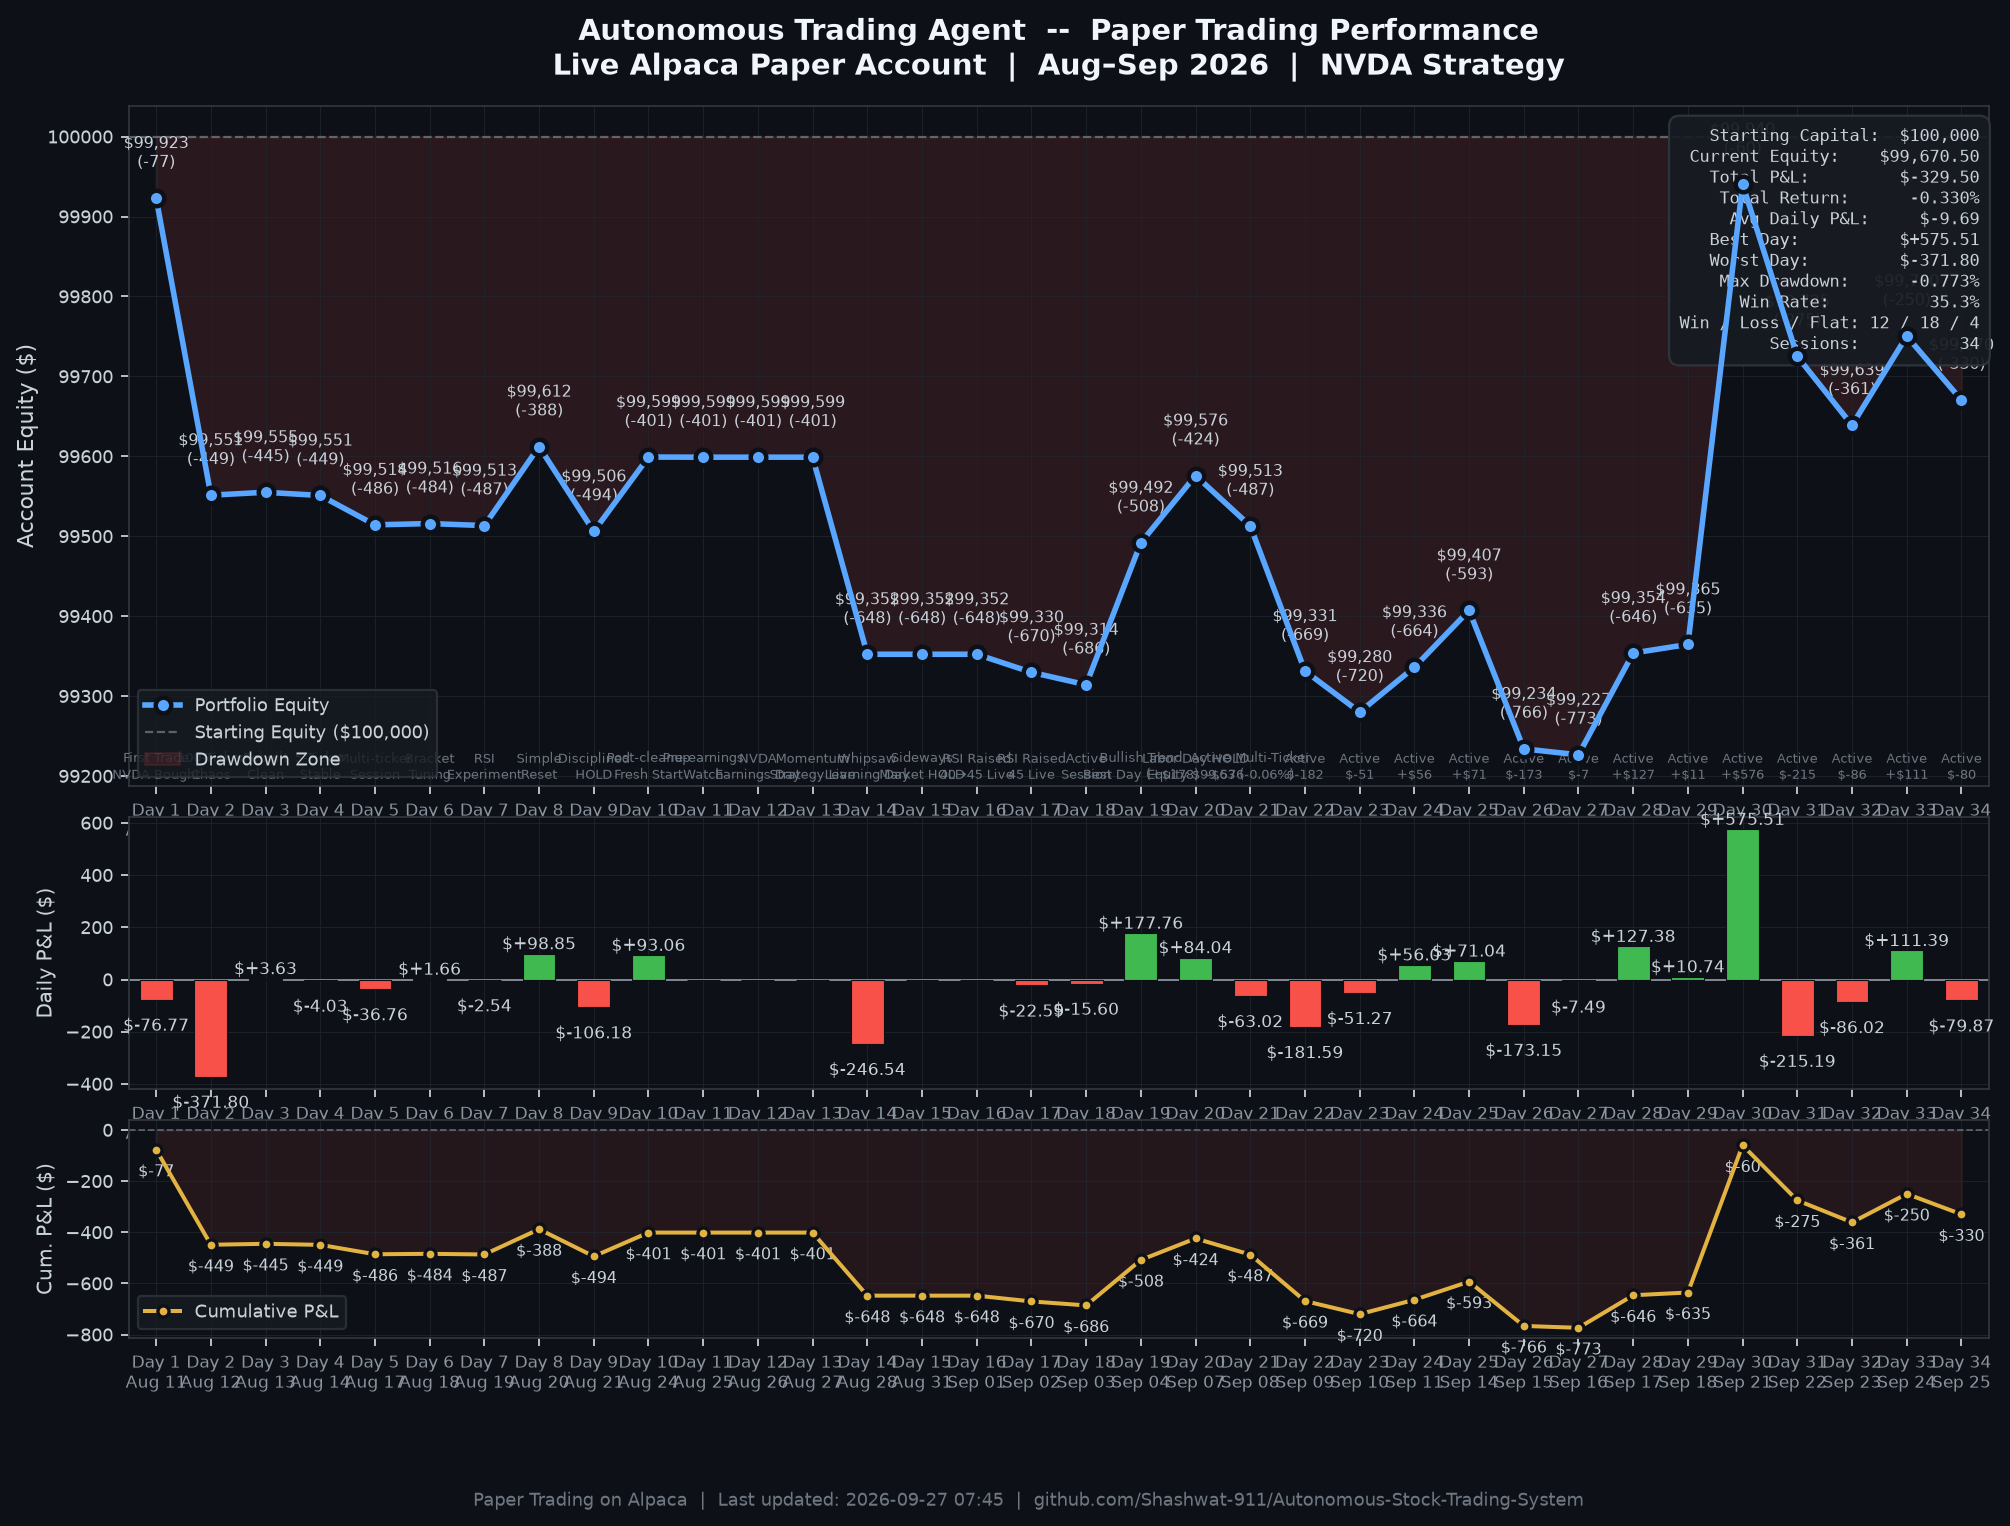
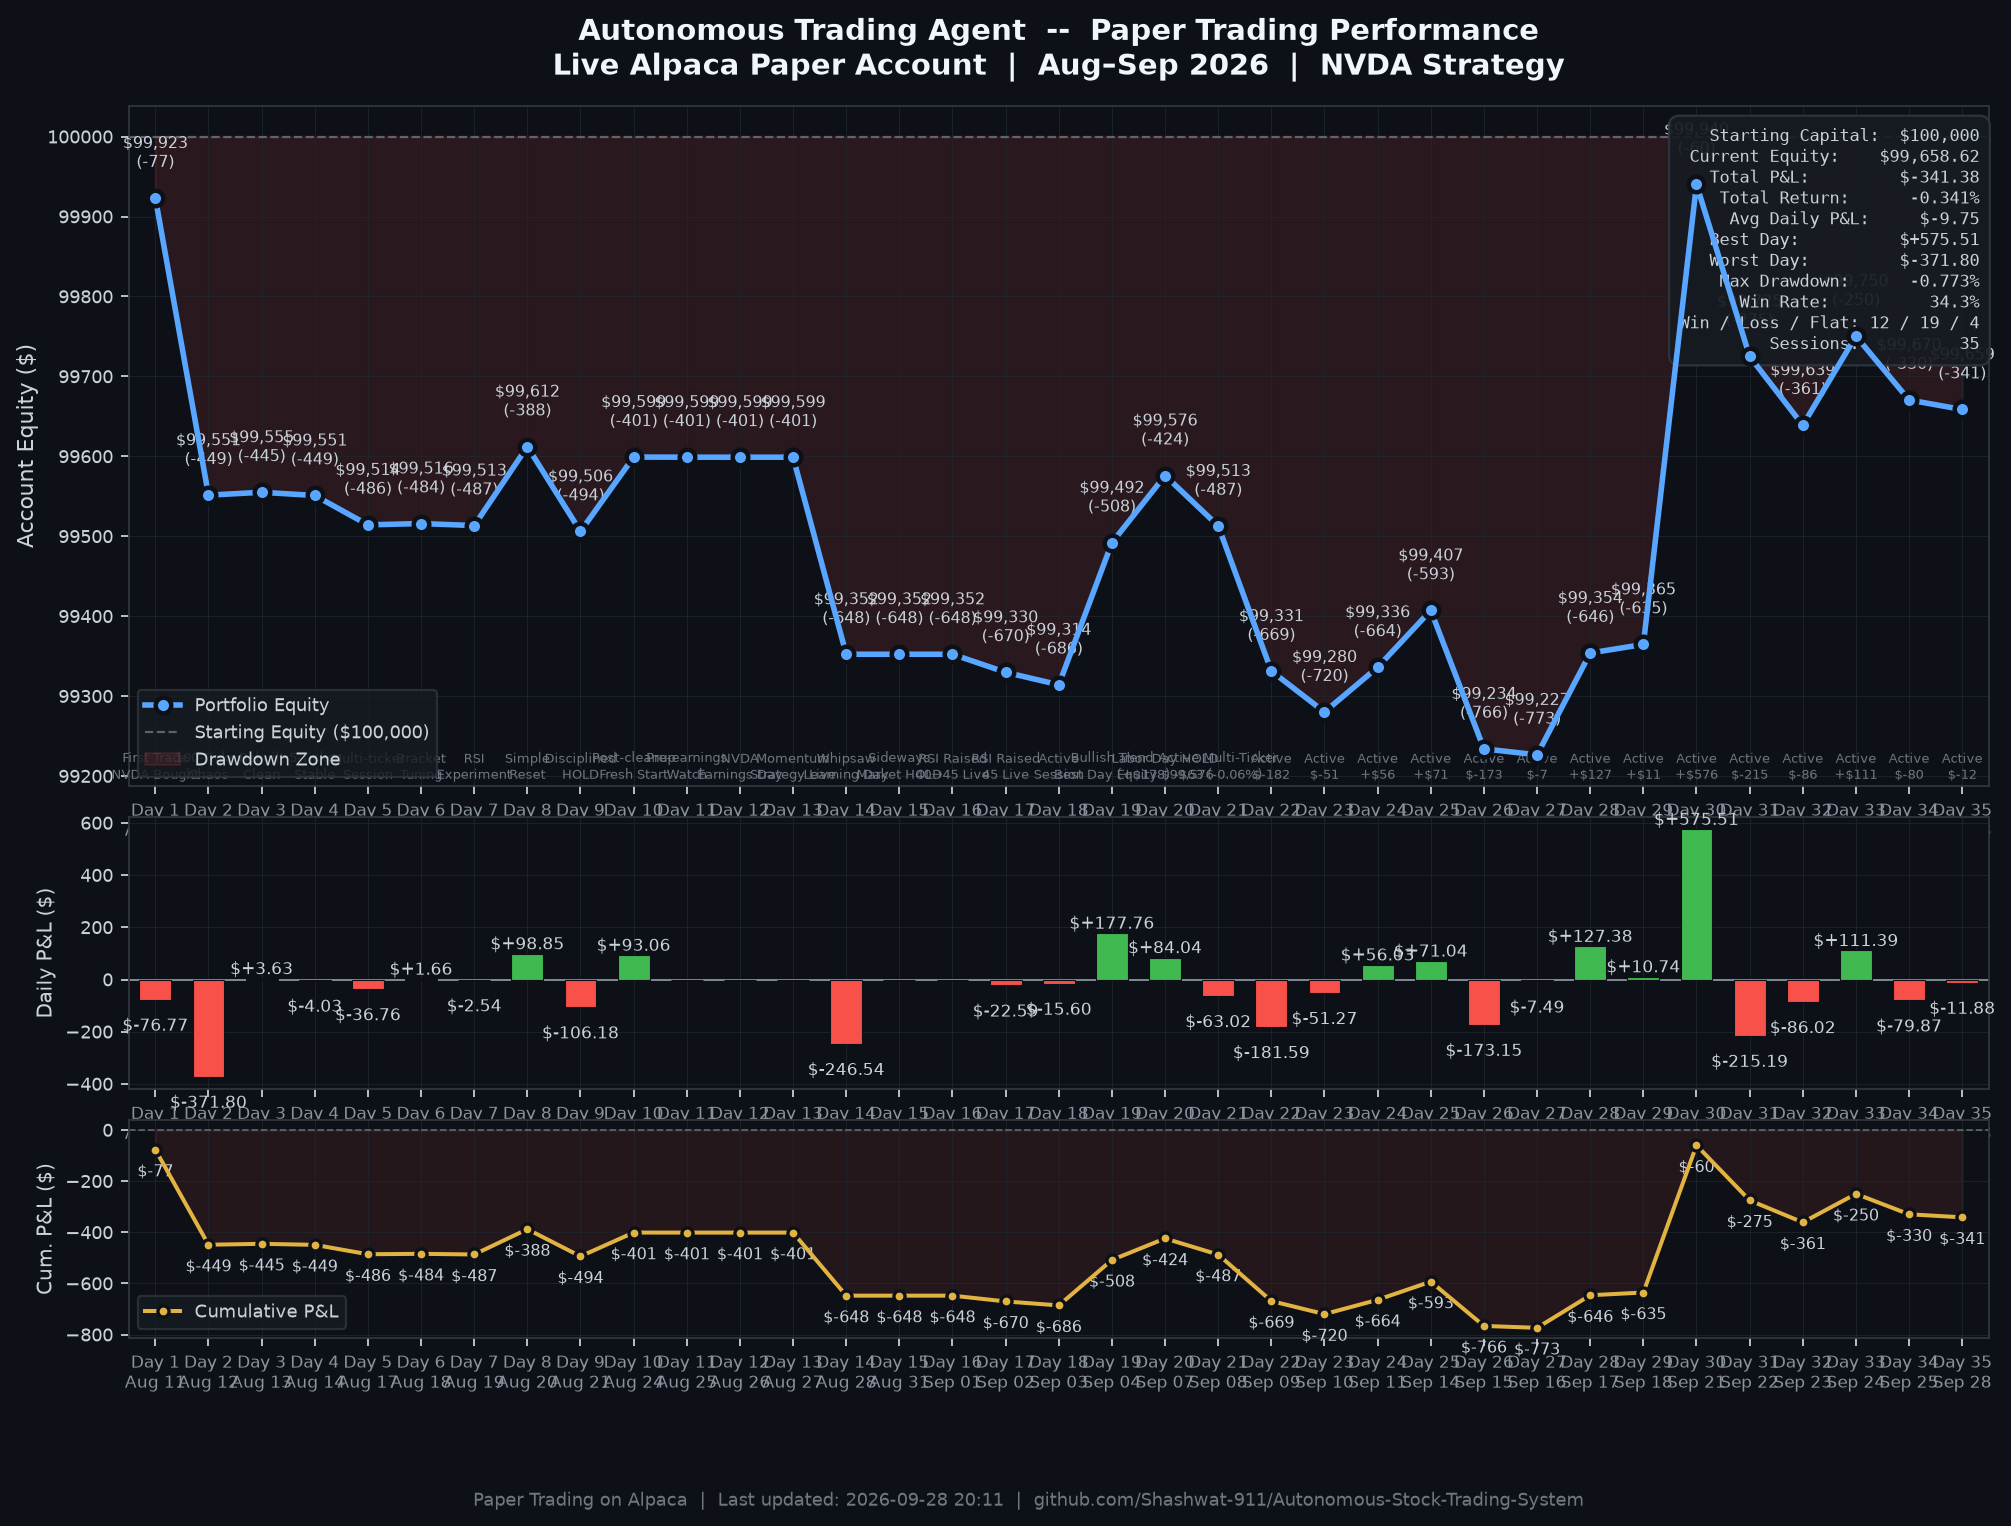
auto(session): 2026-09-28 | equity=$99,659 | return=-0.341%

diff --git a/README.md b/README.md
@@ -47,7 +47,7 @@ The automated trading bot is deployed in the cloud on Render with continuous mon
 
 > **Paper Trading on Alpaca** | Started: Aug 11, 2026 | Initial Capital: $100,000.00 | Universe: NVDA, TSLA, META, MSFT, AAPL (5-Stock High-Momentum Universe)
 
-![Daily P&L Chart](outputs/daily_pnl_chart.png?v=20260925)
+![Daily P&L Chart](outputs/daily_pnl_chart.png?v=20260928)
 
 *Chart auto-generated from live Alpaca Portfolio History API and verified session telemetry via [`scripts/generate_pnl_chart.py`](scripts/generate_pnl_chart.py).*
 
@@ -89,8 +89,9 @@ The automated trading bot is deployed in the cloud on Render with continuous mon
 | **Day 32** | Sep 23 (Wed) | $99,638.98 | -$86.02 | -$361.02 | -0.361% | Active Session (-$86.02) |
 | **Day 33** | Sep 24 (Thu) | $99,750.37 | **+$111.39** | -$249.63 | -0.250% | Profitable Session (+$111.39) |
 | **Day 34** | Sep 25 (Fri) | $99,670.50 | -$79.87 | -$329.50 | -0.330% | Active Session (-$79.87) |
+| **Day 35** | Sep 28 (Mon) | $99,658.62 | -$11.88 | -$341.38 | -0.341% | Active Session (-$11.88) |
 
-> **Current Equity**: $99,670.50 | **Total P&L**: $-329.50 | **Best Day**: $+575.51 | **Win Rate**: 35.3% (12W / 18L / 4 Flat) | **Max Drawdown**: -0.773% | **Sessions**: 34
+> **Current Equity**: $99,658.62 | **Total P&L**: $-341.38 | **Best Day**: $+575.51 | **Win Rate**: 34.3% (12W / 19L / 4 Flat) | **Max Drawdown**: -0.773% | **Sessions**: 35
 ---
 
 ## System Architecture
